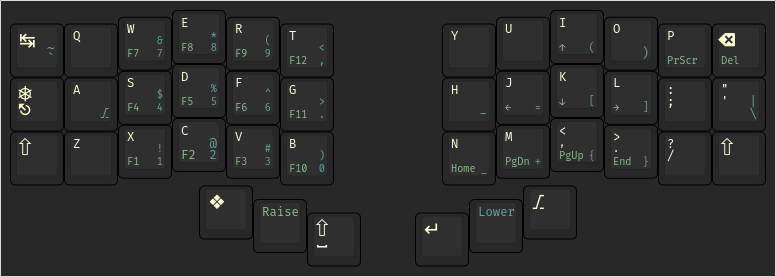
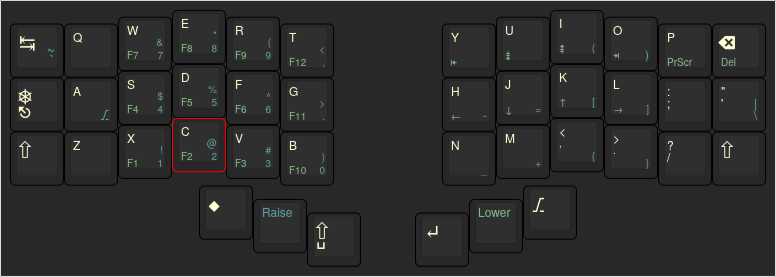
arrows to nvim, home pg end to yuio

diff --git a/keymap.c b/keymap.c
@@ -13,7 +13,7 @@
 const uint16_t PROGMEM keymaps[][MATRIX_ROWS][MATRIX_COLS] = {
     [0] = LAYOUT_split_3x6_3(KC_TAB, KC_Q, KC_W, KC_E, KC_R, KC_T, KC_Y, KC_U, KC_I, KC_O, KC_P, KC_BSPC, LCTL_T(KC_ESC), KC_A, KC_S, KC_D, KC_F, KC_G, KC_H, KC_J, KC_K, KC_L, KC_SCLN, KC_QUOT, OSM(MOD_LSFT), KC_Z, KC_X, KC_C, KC_V, KC_B, KC_N, KC_M, KC_COMM, KC_DOT, KC_SLSH, KC_RSFT, OSM(MOD_LGUI), OSL(1), LSFT_T(KC_SPC), KC_ENT, OSL(2), OSM(MOD_RALT)),
     [1] = LAYOUT_split_3x6_3(KC_GRV, KC_NO, KC_7, KC_8, KC_9, KC_COMM, KC_NO, KC_NO, KC_LPRN, KC_RPRN, KC_NO, KC_BSPC, KC_TRNS, OSM(MOD_LALT), KC_4, KC_5, KC_6, KC_DOT, KC_PMNS, KC_PEQL, KC_LBRC, KC_RBRC, KC_NO, KC_BSLS, KC_TRNS, KC_NO, KC_1, KC_2, KC_3, KC_0, KC_UNDS, KC_PLUS, KC_LCBR, KC_RCBR, KC_NO, KC_TRNS, KC_TRNS, KC_TRNS, KC_TRNS, KC_TRNS, KC_TRNS, KC_TRNS),
-    [2] = LAYOUT_split_3x6_3(KC_NO, KC_NO, KC_F7, KC_F8, KC_F9, KC_F12, KC_NO, KC_NO, KC_UP, KC_NO, KC_PSCR, KC_DEL, KC_TRNS, KC_NO, KC_F4, KC_F5, KC_F6, KC_F11, KC_NO, KC_LEFT, KC_DOWN, KC_RGHT, KC_NO, KC_NO, KC_TRNS, KC_NO, KC_F1, KC_F2, KC_F3, KC_F10, KC_HOME, KC_PGDN, KC_PGUP, KC_END, KC_NO, KC_NO, KC_TRNS, KC_TRNS, KC_TRNS, KC_TRNS, KC_TRNS, KC_TRNS)
+    [2] = LAYOUT_split_3x6_3(KC_NO, KC_NO, KC_F7, KC_F8, KC_F9, KC_F12, KC_HOME, KC_PGDN, KC_PGUP, KC_END, KC_PSCR, KC_DEL, KC_TRNS, KC_NO, KC_F4, KC_F5, KC_F6, KC_F11, KC_LEFT, KC_DOWN, KC_UP, KC_RIGHT, KC_NO, KC_NO, KC_TRNS, KC_NO, KC_F1, KC_F2, KC_F3, KC_F10, KC_NO, KC_NO, KC_NO, KC_NO, KC_NO, KC_NO, KC_TRNS, KC_TRNS, KC_TRNS, KC_TRNS, KC_TRNS, KC_TRNS)
 };
 
 
